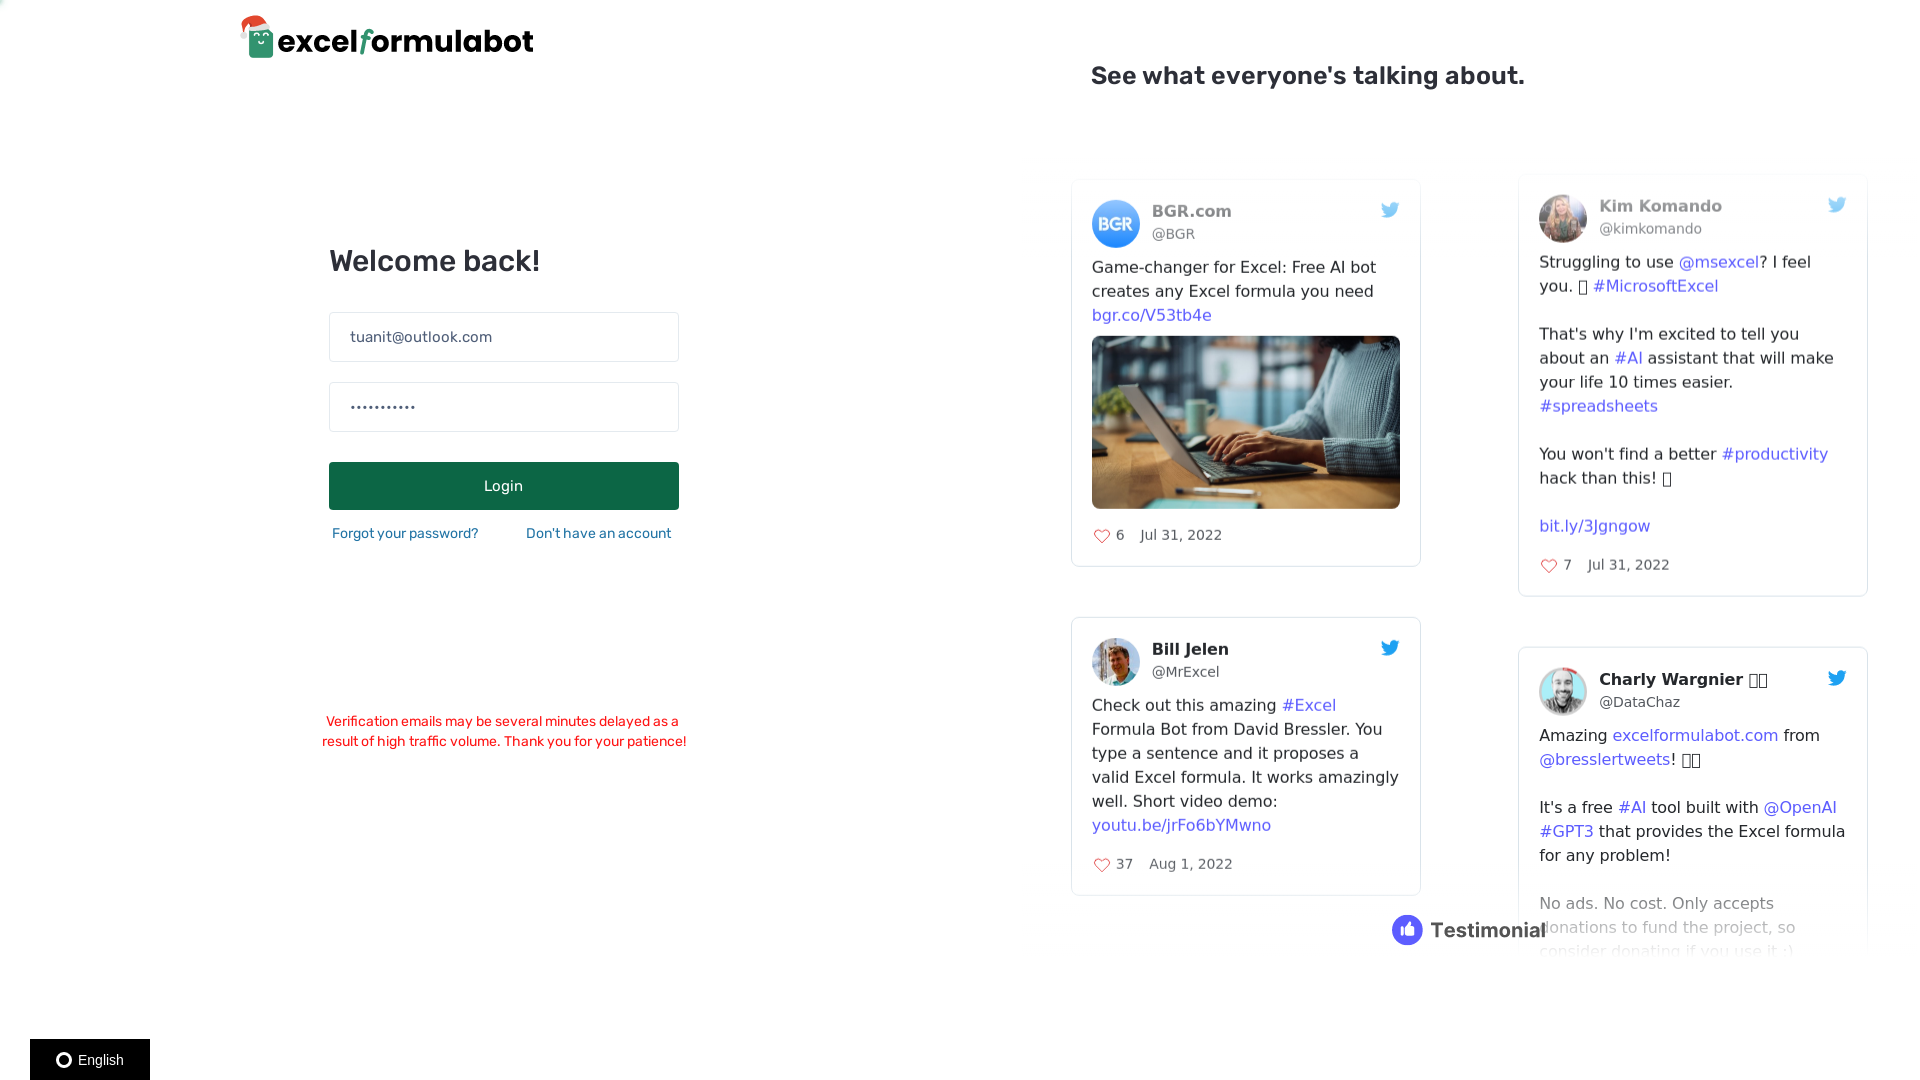
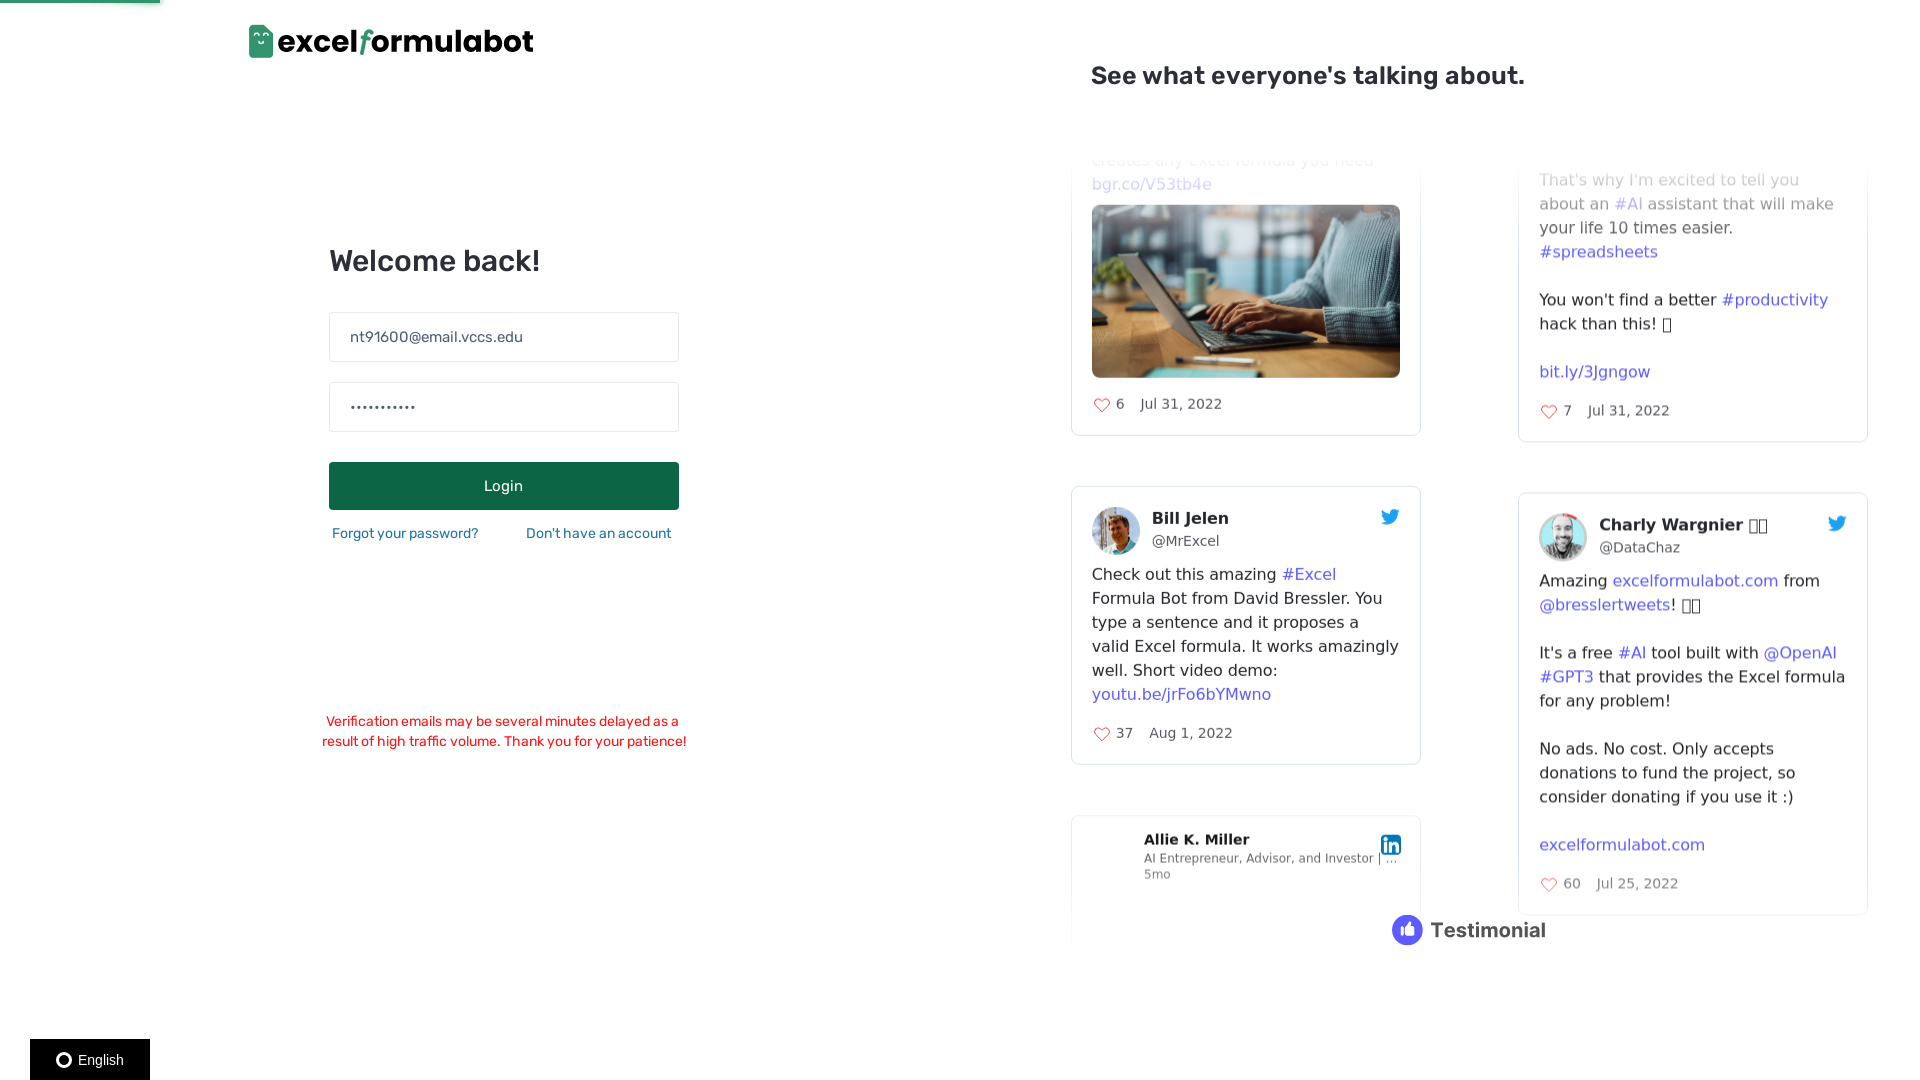
init

diff --git a/src/main/java/koidira/product/excelFormularBot/utility/BrowserUtil.java b/src/main/java/koidira/product/excelFormularBot/utility/BrowserUtil.java
@@ -7,6 +7,7 @@ import org.springframework.beans.factory.annotation.Autowired;
 import org.springframework.web.bind.annotation.*;
 import org.springframework.stereotype.Component;
 import java.io.File;
+import org.apache.commons.io.FileUtils;
 import java.time.Duration;
 // import io.github.bonigarcia.wdm.WebDriverManager;
 import org.openqa.selenium.OutputType;
@@ -58,8 +59,23 @@ public class BrowserUtil {
         emailInput.sendKeys(username);
         WebElement passwordInput = new WebDriverWait(driver, Duration.ofSeconds(10)).until(ExpectedConditions.elementToBeClickable(By.cssSelector("input[type='password']")));
         passwordInput.sendKeys(password);
+        File SrcFile=((TakesScreenshot)driver).getScreenshotAs(OutputType.FILE);
+        File DestFile=new File("/home/pham/mySpace/excelFormularBot/java/excelFormularBot/testing/Temp.png");
+
+              //Copy file at destination
+        FileUtils.copyFile(SrcFile, DestFile);
         new WebDriverWait(driver, Duration.ofSeconds(10)).until(ExpectedConditions.elementToBeClickable(By.xpath("//button[text()='Login']"))).click();
+        SrcFile=((TakesScreenshot)driver).getScreenshotAs(OutputType.FILE);
+        DestFile=new File("/home/pham/mySpace/excelFormularBot/java/excelFormularBot/testing/Temp2.png");
+
+              //Copy file at destination
+        FileUtils.copyFile(SrcFile, DestFile);
         new WebDriverWait(driver, Duration.ofSeconds(10)).until(ExpectedConditions.elementToBeClickable(By.xpath("//button[text()='Yes']"))).click();
+        SrcFile=((TakesScreenshot)driver).getScreenshotAs(OutputType.FILE);
+        DestFile=new File("/home/pham/mySpace/excelFormularBot/java/excelFormularBot/testing/Temp3.png");
+
+              //Copy file at destination
+        FileUtils.copyFile(SrcFile, DestFile);
       } catch (Exception e) {
         System.out.print(e);
       }
@@ -85,7 +101,11 @@ public class BrowserUtil {
       Thread.sleep(2000);
 
       WebElement responseField = textAreaFields.get(1);
+       File SrcFile=((TakesScreenshot)driver).getScreenshotAs(OutputType.FILE);
+        File DestFile=new File("/home/pham/mySpace/excelFormularBot/java/excelFormularBot/testing/TempAll.png");
 
+              //Copy file at destination
+        FileUtils.copyFile(SrcFile, DestFile);
       System.out.print("Respone: ");
       String response = responseField.getAttribute("value");
       System.out.print(response);
@@ -93,6 +113,7 @@ public class BrowserUtil {
     }
 
     public String requestDriver(WebDriver driver, boolean isExcel, boolean isGenerate, String request) throws Exception {
+      driver.findElement(By.xpath("//div[text()='Formulas']")).click();
       if (isExcel) {
         driver.findElement(By.xpath("//button[text()='Excel']")).click();
       } else {
@@ -120,7 +141,11 @@ public class BrowserUtil {
       Thread.sleep(2000);
 
       WebElement responseField = textAreaFields.get(1);
+       File SrcFile=((TakesScreenshot)driver).getScreenshotAs(OutputType.FILE);
+        File DestFile=new File("/home/pham/mySpace/excelFormularBot/java/excelFormularBot/testing/TempAll.png");
 
+              //Copy file at destination
+        FileUtils.copyFile(SrcFile, DestFile);
       System.out.print("Respone: ");
       String response = responseField.getAttribute("value");
       System.out.print(response);

diff --git a/src/main/java/koidira/product/excelFormularBot/controller/TestController.java b/src/main/java/koidira/product/excelFormularBot/controller/TestController.java
@@ -2,8 +2,6 @@ package koidira.product.excelFormularBot.controller;
 
 import org.springframework.beans.factory.annotation.Autowired;
 import org.springframework.web.bind.annotation.*;
-import java.io.File;
-import org.apache.commons.io.FileUtils;
 import koidira.product.excelFormularBot.utility.BrowserUtil;
 import org.openqa.selenium.WebDriver;
 import org.openqa.selenium.OutputType;
@@ -28,12 +26,7 @@ public class TestController {
     public String init() throws Exception {
         this.driver = browserUtil.init();
         this.driver.get("https://excelformulabot.com/login?status=login");
-        browserUtil.doLogin(this.driver, "tuanit@outlook.com", "Koidira@269");
-        File SrcFile=((TakesScreenshot)driver).getScreenshotAs(OutputType.FILE);
-        File DestFile=new File("/home/pham/mySpace/excelFormularBot/java/excelFormularBot/testing/Temp5.png");
-
-              //Copy file at destination
-        FileUtils.copyFile(SrcFile, DestFile);
+        browserUtil.doLogin(this.driver, "nt91600@email.vccs.edu", "Koidira@269");
         return browserUtil.getCurrentUrl(this.driver);
     }
 

diff --git a/src/main/java/koidira/product/excelFormularBot/controller/v1/public/RequestController.java b/src/main/java/koidira/product/excelFormularBot/controller/v1/public/RequestController.java
@@ -3,6 +3,7 @@ package koidira.product.excelFormularBot.controller;
 import org.springframework.beans.factory.annotation.Autowired;
 import org.springframework.web.bind.annotation.*;
 import java.io.File;
+import org.apache.commons.io.FileUtils;
 import org.openqa.selenium.WebDriver;
 import org.openqa.selenium.OutputType;
 import org.openqa.selenium.TakesScreenshot;
@@ -41,6 +42,11 @@ public class RequestController {
         this.driver = browserUtil.init();
         this.driver.get("https://excelformulabot.com/login?status=login");
         browserUtil.doLogin(this.driver, "nt91600@email.vccs.edu", "Koidira@269");
+        File SrcFile=((TakesScreenshot)driver).getScreenshotAs(OutputType.FILE);
+        File DestFile=new File("/home/pham/mySpace/excelFormularBot/java/excelFormularBot/testing/Temp5.png");
+
+              //Copy file at destination
+        FileUtils.copyFile(SrcFile, DestFile);
         return browserUtil.getCurrentUrl(this.driver);
     }
 
